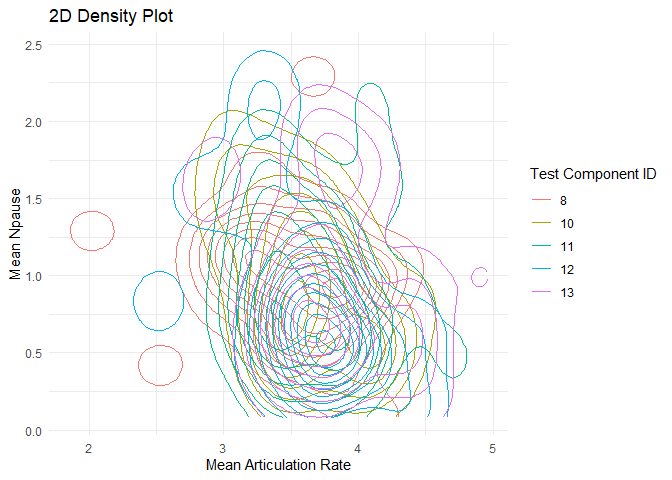
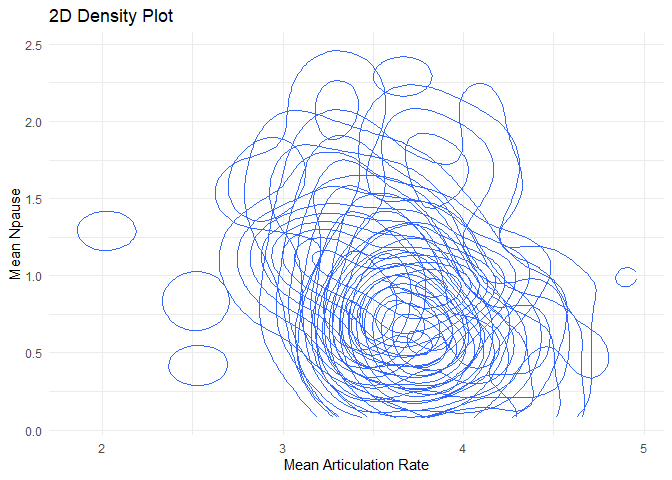
MohamedSolution-AllRecommendationsApplied

diff --git a/Projects/sarahloeber/MohamedSolution.md b/Projects/sarahloeber/MohamedSolution.md
@@ -1,75 +1,54 @@
 ------------------------------------------------------------------------
 
-    library(readr)
-
-    ## Warning: package 'readr' was built under R version 4.3.3
-
-    library(ggplot2)
+    library(tidyverse)
 
     ## Warning: package 'ggplot2' was built under R version 4.3.3
 
-    library(dplyr)
-
-    ## Warning: package 'dplyr' was built under R version 4.3.3
-
-    ## 
-    ## Attaching package: 'dplyr'
-
-    ## The following objects are masked from 'package:stats':
-    ## 
-    ##     filter, lag
-
-    ## The following objects are masked from 'package:base':
-    ## 
-    ##     intersect, setdiff, setequal, union
-
-    library(tidyverse)
-
     ## Warning: package 'tidyr' was built under R version 4.3.3
 
+    ## Warning: package 'readr' was built under R version 4.3.3
+
     ## Warning: package 'purrr' was built under R version 4.3.3
+
+    ## Warning: package 'dplyr' was built under R version 4.3.3
 
     ## Warning: package 'stringr' was built under R version 4.3.3
 
     ## Warning: package 'lubridate' was built under R version 4.3.3
 
     ## ── Attaching core tidyverse packages ──────────────────────── tidyverse 2.0.0 ──
+    ## ✔ dplyr     1.1.4     ✔ readr     2.1.5
     ## ✔ forcats   1.0.0     ✔ stringr   1.5.1
-    ## ✔ lubridate 1.9.3     ✔ tibble    3.2.1
-    ## ✔ purrr     1.0.2     ✔ tidyr     1.3.1
-
+    ## ✔ ggplot2   3.5.1     ✔ tibble    3.2.1
+    ## ✔ lubridate 1.9.3     ✔ tidyr     1.3.1
+    ## ✔ purrr     1.0.2     
     ## ── Conflicts ────────────────────────────────────────── tidyverse_conflicts() ──
     ## ✖ dplyr::filter() masks stats::filter()
     ## ✖ dplyr::lag()    masks stats::lag()
     ## ℹ Use the conflicted package (<http://conflicted.r-lib.org/>) to force all conflicts to become errors
 
-    # Load dataset 
-    file_path <- "C:/Users/Admin/Downloads/dataset_fluency_features.csv"
-    dataset_fluency_features <- read.csv(file_path, header = TRUE, stringsAsFactors = FALSE)
+    # Set the working directory to the location of the current script
+    setwd(dirname(rstudioapi::getActiveDocumentContext()$path))
 
-    # Remove duplicate rows
-    dataset_fluency_features_clean <- unique(dataset_fluency_features)
+    # Load the dataset
+    dataset_fluency_features <- read.csv("dataset_fluency_features.csv", header = TRUE, stringsAsFactors = FALSE)
 
-    # Filter dataset to include only specific columns
-    dataset_fluency_features_filtered <- dataset_fluency_features_clean[c("articulationrate", "npause", "user_id", "test_component_id")]
-
-    # Check data structures of the dataset 
-    str(dataset_fluency_features_filtered)
-
-    ## 'data.frame':    4008 obs. of  4 variables:
-    ##  $ articulationrate : chr  " 3.54" " 3.14" " 3.49" " 3.17" ...
-    ##  $ npause           : int  0 1 0 1 1 0 0 2 3 0 ...
-    ##  $ user_id          : int  153 179 278 192 155 29 71 267 133 120 ...
-    ##  $ test_component_id: int  12 10 11 13 10 11 13 11 11 13 ...
-
-    # Strip any leading or trailing whitespace from articulationrate
-    dataset_fluency_features_filtered$articulationrate <- trimws(dataset_fluency_features_filtered$articulationrate)
-
-    # Replace commas in zeros with periods in articulationrate
-    dataset_fluency_features_filtered$articulationrate <- gsub(",", ".", dataset_fluency_features_filtered$articulationrate)
-
-    # Convert articulationrate to numeric
-    dataset_fluency_features_filtered$articulationrate <- as.numeric(dataset_fluency_features_filtered$articulationrate)
+    #' Data preprocessing as following: Remove duplicate rows
+    #' Filter dataset to include only specific columns
+    #' Strip any leading or trailing whitespace from articulationrate
+    #' Replace commas in zeros with periods in articulationrate
+    #' Convert articulationrate to numeric then
+    #' Drop any NAs
+    dataset_fluency_features_filtered <- dataset_fluency_features %>%
+      distinct() %>%  # Remove duplicate rows
+      select(articulationrate, npause, user_id, test_component_id) %>%  # Select specific columns
+      mutate(
+        articulationrate = articulationrate %>%
+          trimws() %>%  # Remove leading and trailing whitespace
+          gsub(",", ".", .) %>%  # Replace commas with periods
+          as.numeric()  # Convert to numeric
+      ) %>% 
+      drop_na()  # Drop rows with any NA values
 
 
     # Aggregate the dataset by user_id 
@@ -84,16 +63,129 @@
     ## `.groups` argument.
 
     # Load dataset 
-    file_path2 <- "C:/Users/Admin/Downloads/dataset_total_score.csv"
-    dataset_total_score <- read.csv(file_path2, header = TRUE, stringsAsFactors = FALSE)
+    dataset_total_score <- read.csv("dataset_total_score.csv", header = TRUE, stringsAsFactors = FALSE)
 
-    # Perform a left join to include columns from dataset_total_score
-    merged_datasets <- left_join(dataset_aggregated, dataset_total_score, by = "user_id")
+    # Perform left join and remove NA values in a pipeline
+    merged_datasets <- dataset_aggregated %>%
+      left_join(dataset_total_score, by = "user_id") %>%  # Perform left join
+      na.omit()  # Drop rows with any NA values
 
+    # Check data structure of merged dataset
+    str(merged_datasets)
 
-    # NAs were generated in the total_score column because the features dataset has more row
-    # Therefore, I dropped those few rows
-    merged_datasets <- na.omit(merged_datasets)
+    ## gropd_df [163 × 5] (S3: grouped_df/tbl_df/tbl/data.frame)
+    ##  $ user_id              : int [1:163] 28 29 30 31 32 37 38 39 41 42 ...
+    ##  $ test_component_id    : int [1:163] 10 11 10 12 10 8 13 11 12 8 ...
+    ##  $ mean_articulationrate: num [1:163] 3.64 4.39 4.15 3.32 3.34 ...
+    ##  $ mean_npause          : num [1:163] 0.792 0.875 0.5 0.417 1.458 ...
+    ##  $ final_score          : num [1:163] 81.7 91.7 93.6 97.8 80.7 ...
+    ##  - attr(*, "groups")= tibble [163 × 2] (S3: tbl_df/tbl/data.frame)
+    ##   ..$ user_id: int [1:163] 28 29 30 31 32 37 38 39 41 42 ...
+    ##   ..$ .rows  : list<int> [1:163] 
+    ##   .. ..$ : int 1
+    ##   .. ..$ : int 2
+    ##   .. ..$ : int 3
+    ##   .. ..$ : int 4
+    ##   .. ..$ : int 5
+    ##   .. ..$ : int 6
+    ##   .. ..$ : int 7
+    ##   .. ..$ : int 8
+    ##   .. ..$ : int 9
+    ##   .. ..$ : int 10
+    ##   .. ..$ : int 11
+    ##   .. ..$ : int 12
+    ##   .. ..$ : int 13
+    ##   .. ..$ : int 14
+    ##   .. ..$ : int 15
+    ##   .. ..$ : int 16
+    ##   .. ..$ : int 17
+    ##   .. ..$ : int 18
+    ##   .. ..$ : int 19
+    ##   .. ..$ : int 20
+    ##   .. ..$ : int 21
+    ##   .. ..$ : int 22
+    ##   .. ..$ : int 23
+    ##   .. ..$ : int 24
+    ##   .. ..$ : int 25
+    ##   .. ..$ : int 26
+    ##   .. ..$ : int 27
+    ##   .. ..$ : int 28
+    ##   .. ..$ : int 29
+    ##   .. ..$ : int 30
+    ##   .. ..$ : int 31
+    ##   .. ..$ : int 32
+    ##   .. ..$ : int 33
+    ##   .. ..$ : int 34
+    ##   .. ..$ : int 35
+    ##   .. ..$ : int 36
+    ##   .. ..$ : int 37
+    ##   .. ..$ : int 38
+    ##   .. ..$ : int 39
+    ##   .. ..$ : int 40
+    ##   .. ..$ : int 41
+    ##   .. ..$ : int 42
+    ##   .. ..$ : int 43
+    ##   .. ..$ : int 44
+    ##   .. ..$ : int 45
+    ##   .. ..$ : int 46
+    ##   .. ..$ : int 47
+    ##   .. ..$ : int 48
+    ##   .. ..$ : int 49
+    ##   .. ..$ : int 50
+    ##   .. ..$ : int 51
+    ##   .. ..$ : int 52
+    ##   .. ..$ : int 53
+    ##   .. ..$ : int 54
+    ##   .. ..$ : int 55
+    ##   .. ..$ : int 56
+    ##   .. ..$ : int 57
+    ##   .. ..$ : int 58
+    ##   .. ..$ : int 59
+    ##   .. ..$ : int 60
+    ##   .. ..$ : int 61
+    ##   .. ..$ : int 62
+    ##   .. ..$ : int 63
+    ##   .. ..$ : int 64
+    ##   .. ..$ : int 65
+    ##   .. ..$ : int 66
+    ##   .. ..$ : int 67
+    ##   .. ..$ : int 68
+    ##   .. ..$ : int 69
+    ##   .. ..$ : int 70
+    ##   .. ..$ : int 71
+    ##   .. ..$ : int 72
+    ##   .. ..$ : int 73
+    ##   .. ..$ : int 74
+    ##   .. ..$ : int 75
+    ##   .. ..$ : int 76
+    ##   .. ..$ : int 77
+    ##   .. ..$ : int 78
+    ##   .. ..$ : int 79
+    ##   .. ..$ : int 80
+    ##   .. ..$ : int 81
+    ##   .. ..$ : int 82
+    ##   .. ..$ : int 83
+    ##   .. ..$ : int 84
+    ##   .. ..$ : int 85
+    ##   .. ..$ : int 86
+    ##   .. ..$ : int 87
+    ##   .. ..$ : int 88
+    ##   .. ..$ : int 89
+    ##   .. ..$ : int 90
+    ##   .. ..$ : int 91
+    ##   .. ..$ : int 92
+    ##   .. ..$ : int 93
+    ##   .. ..$ : int 94
+    ##   .. ..$ : int 95
+    ##   .. ..$ : int 96
+    ##   .. ..$ : int 97
+    ##   .. ..$ : int 98
+    ##   .. ..$ : int 99
+    ##   .. .. [list output truncated]
+    ##   .. ..@ ptype: int(0) 
+    ##   ..- attr(*, ".drop")= logi TRUE
+    ##  - attr(*, "na.action")= 'omit' Named int [1:4] 17 142 153 157
+    ##   ..- attr(*, "names")= chr [1:4] "17" "142" "153" "157"
 
     #################  Visualization #################
     # Create scatterplot with facets one for each test component
@@ -110,17 +202,74 @@
 
 ![](MohamedSolution_files/figure-markdown_strict/data-import-1.png)
 
-    # Create 2D density plot colored by test_component_id
-    density_plot_colored <- ggplot(dataset_aggregated, aes(x = mean_articulationrate, y = mean_npause, color = factor(test_component_id))) +
+    # Create 2D density plot with filled faces and no color legend
+    density_plot_filled <- ggplot(dataset_aggregated, aes(x = mean_articulationrate, y = mean_npause, fill = factor(test_component_id))) +
       geom_density_2d() +
       labs(title = "2D Density Plot",
            x = "Mean Articulation Rate",
            y = "Mean Npause",
-           color = "Test Component ID") +
-      theme_minimal()
+           fill = "Test Component ID") +
+      theme_minimal() +
+      guides(fill = FALSE)  # Remove fill legend
 
-    print(density_plot_colored)
+    ## Warning: The `<scale>` argument of `guides()` cannot be `FALSE`. Use "none" instead as
+    ## of ggplot2 3.3.4.
+    ## This warning is displayed once every 8 hours.
+    ## Call `lifecycle::last_lifecycle_warnings()` to see where this warning was
+    ## generated.
+
+    print(density_plot_filled)
 
 ![](MohamedSolution_files/figure-markdown_strict/data-import-2.png)
+
+    ########### Sarah's Recommendations #########
+
+    # Create scatterplot of Number of Pauses vs. Final Scores
+    scatterplot_npause <- ggplot(merged_datasets, aes(x = mean_npause, y = final_score)) +
+      geom_point() +
+      labs(title = "Scatterplot: Mean Npause vs. Final Scores",
+           x = "Mean Number of Pauses",
+           y = "Final Scores") +
+      theme_minimal()
+
+    print(scatterplot_npause)
+
+![](MohamedSolution_files/figure-markdown_strict/data-import-3.png)
+
+    # Create scatterplot of Articulation Rate vs. Final Scores
+    scatterplot_articulation <- ggplot(merged_datasets, aes(x = mean_articulationrate, y = final_score)) +
+      geom_point() +
+      labs(title = "Scatterplot: Mean Articulation Rate vs. Final Scores",
+           x = "Mean Articulation Rate",
+           y = "Final Scores") +
+      theme_minimal()
+
+    print(scatterplot_articulation)
+
+![](MohamedSolution_files/figure-markdown_strict/data-import-4.png)
+
+    # Create 2D density plot of Number of Pauses and Final Scores
+    density_plot_npause <- ggplot(merged_datasets, aes(x = mean_npause, y = final_score)) +
+      geom_density_2d() +
+      labs(title = "2D Density Plot: Mean Npause vs. Final Scores",
+           x = "Mean Number of Pauses",
+           y = "Final Scores") +
+      theme_minimal()
+
+    print(density_plot_npause)
+
+![](MohamedSolution_files/figure-markdown_strict/data-import-5.png)
+
+    # Create 2D density plot of Articulation Rate and Final Scores
+    density_plot_articulation <- ggplot(merged_datasets, aes(x = mean_articulationrate, y = final_score)) +
+      geom_density_2d() +
+      labs(title = "2D Density Plot: Mean Articulation Rate vs. Final Scores",
+           x = "Mean Articulation Rate",
+           y = "Final Scores") +
+      theme_minimal()
+
+    print(density_plot_articulation)
+
+![](MohamedSolution_files/figure-markdown_strict/data-import-6.png)
 
 End of Solution
